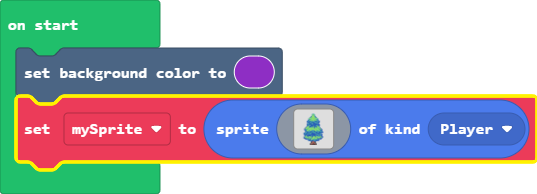
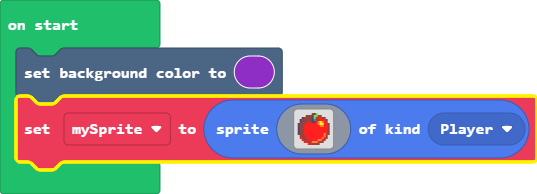
Update main.blocks, main.ts

Changed region(s): [[0.5363, 0.5876, 0.6257, 0.7732]]

diff --git a/main.ts b/main.ts
@@ -1,43 +1,19 @@
 scene.setBackgroundColor(10)
 let mySprite = sprites.create(img`
-    ........................
-    ...........66...........
-    ..........6776..........
-    ..........6776..........
-    .........877778.........
-    ........86777768........
-    .......6777777776.......
-    ......677677776776......
-    ......866777777668......
-    .....86677677677668.....
-    ....8668866766888668....
-    ....8888668886686888....
-    .....86868868868668.....
-    ....866888668888868.....
-    ....8688886888888888....
-    ....8886688888866888....
-    ....8676888868886768....
-    ...87778868678688776....
-    ..8777767767787767778...
-    .877767777777677776778..
-    .8866777777777777776778.
-    .8667776776767776777688.
-    ..887766768668776667668.
-    ..8688668886688686688668
-    .86688688686866888688888
-    8668868866888866888868..
-    88886686688888868688668.
-    .8688888888888888668868.
-    .8878888868868878868788.
-    .87768776788778777667788
-    877677767787776767776778
-    88877787766777777877788.
-    ..88886786777667768888..
-    .....86887786668868.....
-    ......8886888668888.....
-    .........88ee88.........
-    .........feeeef.........
-    .........feeeef.........
-    ........feeefeef........
-    ........fefeffef........
+    . . . . . . . e c 7 . . . . . . 
+    . . . . e e e c 7 7 e e . . . . 
+    . . c e e e e c 7 e 2 2 e e . . 
+    . c e e e e e c 6 e e 2 2 2 e . 
+    . c e e e 2 e c c 2 4 5 4 2 e . 
+    c e e e 2 2 2 2 2 2 4 5 5 2 2 e 
+    c e e 2 2 2 2 2 2 2 2 4 4 2 2 e 
+    c e e 2 2 2 2 2 2 2 2 2 2 2 2 e 
+    c e e 2 2 2 2 2 2 2 2 2 2 2 2 e 
+    c e e 2 2 2 2 2 2 2 2 2 2 2 2 e 
+    c e e 2 2 2 2 2 2 2 2 2 2 4 2 e 
+    . e e e 2 2 2 2 2 2 2 2 2 4 e . 
+    . 2 e e 2 2 2 2 2 2 2 2 4 2 e . 
+    . . 2 e e 2 2 2 2 2 4 4 2 e . . 
+    . . . 2 2 e e 4 4 4 2 e e . . . 
+    . . . . . 2 2 e e e e . . . . . 
     `, SpriteKind.Player)
